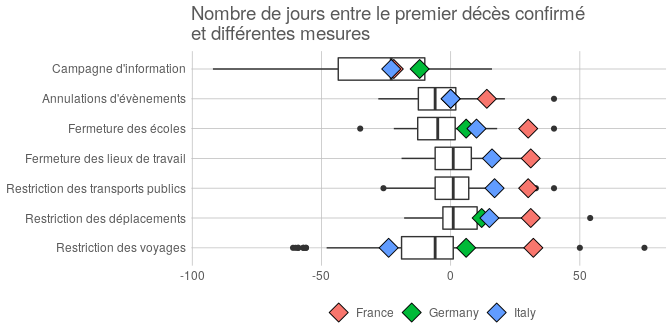
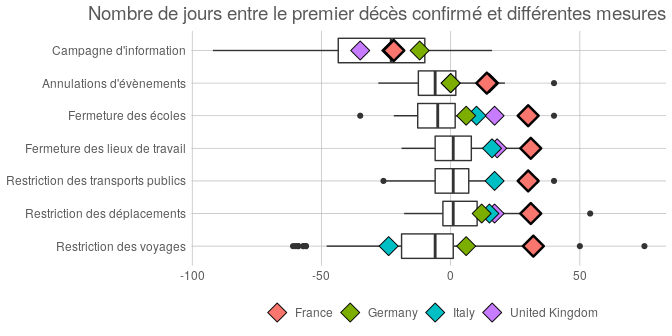
Intégration du calendrier dans les points de référence

diff --git a/covid19.md b/covid19.md
@@ -1,5 +1,5 @@
 ---
-title: "Etude du délais des mesures de la France dans la pandémie Covid19"
+title: "Une étude de la réactivité de la France dans la pandémie Covid19"
 author: |
   | Julien Gossa
   | Université de Strasbourg
@@ -7,6 +7,7 @@ date: "13/04/2020"
 output:
   html_document:
     keep_md: yes
+    number_sections: true
   pdf_document: default
 ---
 
@@ -20,7 +21,7 @@ Le 28 mars 2020, M. Philippe, Premier ministre Français, déclarait « _Je ne l
 
 Cette table montre un délais de réponse particulièrement élevé pour la France, comparativement aux autres pays. Ce document vise à reproduire cette table, puis proposer une visualisation du délais des mesures de la France.
 
-## Source des données 
+# Source des données 
 
 La source des données de cette table semble être une étude mennée par la _Blavatnik School of Government_ de l'Université d'Oxford : « _Variation in government responses to COVID-19_ » [ref](https://www.bsg.ox.ac.uk/research/publications/variation-government-responses-covid-19).
 
@@ -28,10 +29,10 @@ Cette étude propose 13 indicateurs, déclinés en deux dimensions : le niveau d
 
 Ces indicateurs ne correspondent pas exactement à ceux présentés dans la table. Notamment, on n'y retrouve pas les distinctions « magasins » ou « production », et « vitale » ou « non vitales ».
 
-## Reproduction
+# Reproduction
 
 Pour reproduire cette table, on peut calculer 5 mesures, plus proches de la source des données, en considérant la date des mesures obligatoires et générales : 
-  
+
   - Annulations d'évènements 
   - Fermeture des écoles
   - Fermeture des lieux de travail 
@@ -165,9 +166,11 @@ Un traitement manuel de certaines données peut possiblement mener à ce type de
 
 Pour confirmer ou infirmer les conclusions de cette table, il convient de vérifier deux choses : le changement du point de référence, et l'extension des données à d'autres pays et d'autres indicateurs.
 
-## Changement du point de référence
+# Changement du point de référence
 
-Le point de référence généralement utilisé pour étudier la pandémie n'est pas la date du premier décès confirmé, mais la date où 10 cas ont été confirmés.
+## Point de référence : 10 premiers cas confirmés
+
+Le point de référence généralement utilisé pour étudier la pandémie n'est pas la date du premier décès confirmé, mais la date où 10 cas ont été confirmés. Utiliser les cas confirmés atténue le biais dû au taux de mortalité, qui ajoute une variation aux taux de contamination ; et utiliser 10 cas est plus solide qu'un seul, qui peut représenter un cas particulier. 
 
 <table>
 <caption>Nombre de jours entre la date des 10 premiers cas confirmés, et différentes mesures</caption>
@@ -283,7 +286,136 @@ Le point de référence généralement utilisé pour étudier la pandémie n'est
 
 Ce changement de point de référence modifie légèrement les conclusions de la table, puisque la France apparait alors comme plus réactive que l'Allemagne.
 
-## Extension à d'autres pays et d'autres indicateurs
+## Point de référence : 16 mars 2020
+
+Un autre point de référence peut être tout simplement la date, soit le nombre de jours depuis le 16 mars 2020, début du confinement français. Il permet de mesurer la réaction des pays non pas par rapport à leur situation locale, mais par rapport à la situation globale. 
+
+<table>
+<caption>Nombre de jours entre le 1er janvier 2020 et différentes mesures</caption>
+ <thead>
+  <tr>
+   <th style="text-align:left;"> Pays </th>
+   <th style="text-align:right;"> Annulations d'évènements </th>
+   <th style="text-align:right;"> Fermeture des écoles </th>
+   <th style="text-align:right;"> Fermeture des lieux de travail </th>
+   <th style="text-align:right;"> Restriction des déplacements </th>
+   <th style="text-align:right;"> Restriction des voyages </th>
+  </tr>
+ </thead>
+<tbody>
+  <tr>
+   <td style="text-align:left;"> Austria </td>
+   <td style="text-align:right;"> -5 </td>
+   <td style="text-align:right;"> -4 </td>
+   <td style="text-align:right;"> 0 </td>
+   <td style="text-align:right;"> 0 </td>
+   <td style="text-align:right;"> -7 </td>
+  </tr>
+  <tr>
+   <td style="text-align:left;"> Belgium </td>
+   <td style="text-align:right;"> -2 </td>
+   <td style="text-align:right;"> -2 </td>
+   <td style="text-align:right;"> -2 </td>
+   <td style="text-align:right;"> 2 </td>
+   <td style="text-align:right;"> 1 </td>
+  </tr>
+  <tr>
+   <td style="text-align:left;"> Czech Republic </td>
+   <td style="text-align:right;"> -5 </td>
+   <td style="text-align:right;"> -5 </td>
+   <td style="text-align:right;"> NA </td>
+   <td style="text-align:right;"> 0 </td>
+   <td style="text-align:right;"> 0 </td>
+  </tr>
+  <tr>
+   <td style="text-align:left;"> France </td>
+   <td style="text-align:right;"> -16 </td>
+   <td style="text-align:right;"> 0 </td>
+   <td style="text-align:right;"> 1 </td>
+   <td style="text-align:right;"> 1 </td>
+   <td style="text-align:right;"> 2 </td>
+  </tr>
+  <tr>
+   <td style="text-align:left;"> Germany </td>
+   <td style="text-align:right;"> -6 </td>
+   <td style="text-align:right;"> 0 </td>
+   <td style="text-align:right;"> NA </td>
+   <td style="text-align:right;"> 6 </td>
+   <td style="text-align:right;"> 0 </td>
+  </tr>
+  <tr>
+   <td style="text-align:left;"> Greece </td>
+   <td style="text-align:right;"> -16 </td>
+   <td style="text-align:right;"> -5 </td>
+   <td style="text-align:right;"> NA </td>
+   <td style="text-align:right;"> 7 </td>
+   <td style="text-align:right;"> NA </td>
+  </tr>
+  <tr>
+   <td style="text-align:left;"> Hungary </td>
+   <td style="text-align:right;"> -5 </td>
+   <td style="text-align:right;"> -5 </td>
+   <td style="text-align:right;"> NA </td>
+   <td style="text-align:right;"> 12 </td>
+   <td style="text-align:right;"> -7 </td>
+  </tr>
+  <tr>
+   <td style="text-align:left;"> Italy </td>
+   <td style="text-align:right;"> -22 </td>
+   <td style="text-align:right;"> -12 </td>
+   <td style="text-align:right;"> -6 </td>
+   <td style="text-align:right;"> -7 </td>
+   <td style="text-align:right;"> -46 </td>
+  </tr>
+  <tr>
+   <td style="text-align:left;"> Poland </td>
+   <td style="text-align:right;"> -6 </td>
+   <td style="text-align:right;"> -4 </td>
+   <td style="text-align:right;"> -3 </td>
+   <td style="text-align:right;"> 15 </td>
+   <td style="text-align:right;"> -1 </td>
+  </tr>
+  <tr>
+   <td style="text-align:left;"> Portugal </td>
+   <td style="text-align:right;"> -4 </td>
+   <td style="text-align:right;"> -3 </td>
+   <td style="text-align:right;"> NA </td>
+   <td style="text-align:right;"> NA </td>
+   <td style="text-align:right;"> -6 </td>
+  </tr>
+  <tr>
+   <td style="text-align:left;"> Spain </td>
+   <td style="text-align:right;"> -6 </td>
+   <td style="text-align:right;"> 0 </td>
+   <td style="text-align:right;"> 18 </td>
+   <td style="text-align:right;"> -2 </td>
+   <td style="text-align:right;"> -6 </td>
+  </tr>
+  <tr>
+   <td style="text-align:left;"> United Kingdom </td>
+   <td style="text-align:right;"> 5 </td>
+   <td style="text-align:right;"> 7 </td>
+   <td style="text-align:right;"> 8 </td>
+   <td style="text-align:right;"> 7 </td>
+   <td style="text-align:right;"> NA </td>
+  </tr>
+</tbody>
+</table>
+
+Ce changement de point de référence modifie également les conclusions de la table, puisque la France apparait alors comme globalement plus réactive pour la restriction des déplacements, même si elle reste globalement moins réactives que les autres pays de la table pour les autres mesures, hormis l'Angleterre qui présente une semaine de retard.
+
+## Discussion sur les points de références
+
+On constate donc des différences selon le choix du point de référence : 1er décès confirmé, 10 cas confirmés, ou une date arbitraire. Il est nécessaire de visualiser ces dates pour pousser l'analyse :
+
+![](covid19_files/figure-html/dates-1.png)<!-- -->
+
+Cette figure permet de dresser plusieurs constats :
+
+- la France fait partie des pays ayant connu le plus tôt un 1er décès et 10 cas confirmés : ces points de référence sont donc défavorables si on considère seulement la situation mondiale, et pas la situation locale ;
+- les points de référence de la France et de l'Allemagne sont inversés, avec un écart substantiel entre le 1er décès et les 10 cas confirmés pour l'Allemagne : ceci explique la différence de réactivité comparée entre ces deux pays selon le point de référence.
+
+# Extension à d'autres pays et d'autres indicateurs
 
 Pour étendre les indicateurs, on peut ajouter les mesures suivantes :
 
@@ -292,7 +424,7 @@ Pour étendre les indicateurs, on peut ajouter les mesures suivantes :
 
 Lire les données en incluant plus de pays sera difficile sous forme de table, et c'est pourquoi il est nécessaire de proposer une représentation graphique.
 
-### Point de référence : premier décès confirmé
+## Point de référence : premier décès confirmé
 
 ![](covid19_files/figure-html/ext.death-1.png)<!-- -->
 
@@ -365,7 +497,7 @@ Exemple de lecture : « _Parmi les pays ayant mis en œuvre une campagne d'infor
   
 Ces chiffres permettent de constater que la France est parmi les pays présentant les plus grands délais entre le premier cas de décès confirmé et la prise de mesures, hormis en ce qui concerne la campagne d'information.
 
-### Point de référence : 10 premiers cas confirmés
+## Point de référence : 10 premiers cas confirmés
 
 ![](covid19_files/figure-html/ext.tencases-1.png)<!-- -->
 
@@ -436,9 +568,87 @@ Ces chiffres permettent de constater que la France est parmi les pays présentan
 
 Le changement de point de référence, en prenant la date des 10 premiers cas confirmés, modère le constat fait en prenant pour point de référence le premier décès, sans en changer substantiellement les conclusions.
 
-## Conclusion
+## Point de référence : 16 mars 2020
 
-Pour conclure, même si la table diffusée sur les réseaux sociaux présente plusieurs informations qui nécessiteraient de plus amples investigations, l'exploitation des données ouvertes collectées par la _Blavatnik School of Government_ de l'Université d'Oxford montre un délais important en France pour la prise de mesures dans la pandémie Covid19, comparativement aux autres pays surveillés, pour les deux points de répères étudiés ici, et les indicateurs étudiés ici.
+![](covid19_files/figure-html/ext.date-1.png)<!-- -->
+
+<table>
+<caption>Statistiques sur le nombre de jours entre le 16 mars 2020 et différentes mesures</caption>
+ <thead>
+  <tr>
+   <th style="text-align:left;"> Mesure </th>
+   <th style="text-align:right;"> Minimum </th>
+   <th style="text-align:right;"> Moyenne </th>
+   <th style="text-align:right;"> Maximum </th>
+   <th style="text-align:right;"> France </th>
+  </tr>
+ </thead>
+<tbody>
+  <tr>
+   <td style="text-align:left;"> Campagne d'information </td>
+   <td style="text-align:right;"> -75 </td>
+   <td style="text-align:right;"> -26 </td>
+   <td style="text-align:right;"> 19 </td>
+   <td style="text-align:right;"> -52 </td>
+  </tr>
+  <tr>
+   <td style="text-align:left;"> Annulations d'évènements </td>
+   <td style="text-align:right;"> -55 </td>
+   <td style="text-align:right;"> -4 </td>
+   <td style="text-align:right;"> 21 </td>
+   <td style="text-align:right;"> -16 </td>
+  </tr>
+  <tr>
+   <td style="text-align:left;"> Fermeture des écoles </td>
+   <td style="text-align:right;"> -51 </td>
+   <td style="text-align:right;"> -2 </td>
+   <td style="text-align:right;"> 23 </td>
+   <td style="text-align:right;"> 0 </td>
+  </tr>
+  <tr>
+   <td style="text-align:left;"> Fermeture des lieux de travail </td>
+   <td style="text-align:right;"> -50 </td>
+   <td style="text-align:right;"> 5 </td>
+   <td style="text-align:right;"> 26 </td>
+   <td style="text-align:right;"> 1 </td>
+  </tr>
+  <tr>
+   <td style="text-align:left;"> Restriction des transports publics </td>
+   <td style="text-align:right;"> -53 </td>
+   <td style="text-align:right;"> 4 </td>
+   <td style="text-align:right;"> 22 </td>
+   <td style="text-align:right;"> 0 </td>
+  </tr>
+  <tr>
+   <td style="text-align:left;"> Restriction des déplacements </td>
+   <td style="text-align:right;"> -14 </td>
+   <td style="text-align:right;"> 6 </td>
+   <td style="text-align:right;"> 22 </td>
+   <td style="text-align:right;"> 1 </td>
+  </tr>
+  <tr>
+   <td style="text-align:left;"> Restriction des voyages </td>
+   <td style="text-align:right;"> -53 </td>
+   <td style="text-align:right;"> -8 </td>
+   <td style="text-align:right;"> 18 </td>
+   <td style="text-align:right;"> 2 </td>
+  </tr>
+</tbody>
+</table>
+&nbsp;  
+
+Le changement de point de référence, en prenant la date du 16 mars 2020, montre que la France est dans la moyenne internationale, hormis pour la campagne d'information et pour l'annulation d'évènement pour lesquels elle est dans le quart des pays les plus réactifs.
+
+# Conclusion
+
+Pour conclure, l'exploitation des données ouvertes collectées par la _Blavatnik School of Government_ de l'Université d'Oxford permet de globalement confirmer les valeurs de la table diffusée sur les réseaux sociaux, même si de plus amples investigations seraient nécessaires pour expliquer des différences non significatives. Cependant, le point de référence choisi dans cette table est celui, parmi ceux étudiés ici, qui montre la plus mauvaise réactivité pour la France. 
+
+Concernant la France, on peut en réalité dresser les constats suivant  :
+
+- sa réactivité est globalement dans la moyenne lorsqu'on prend le calendrier comme point de référence ;
+- mais elle a été touchée plus tôt que la plupart des autres pays par la pandémie Covid-19 ;
+- elle se retrouve donc parmi les pays les moins réactifs lorsqu'on considère les points de référence locaux, 1er décès et 10 cas confirmés nationnaux.
+
 
 Une comparaison avec d'autres jeux de données est nécessaire pour confirmer ou infirmer ces résultats. D'autres façons, plus fines, de mesurer les temps de réponses sont disponibles dans [l'étude initiale](https://www.bsg.ox.ac.uk/research/publications/variation-government-responses-covid-19).
 
